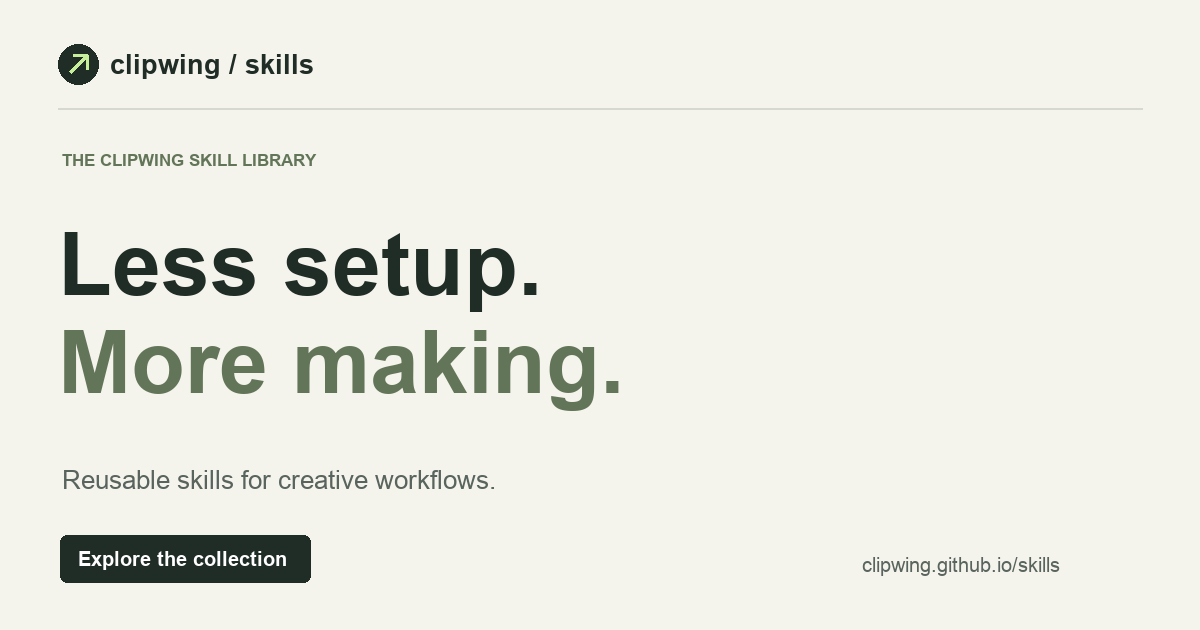
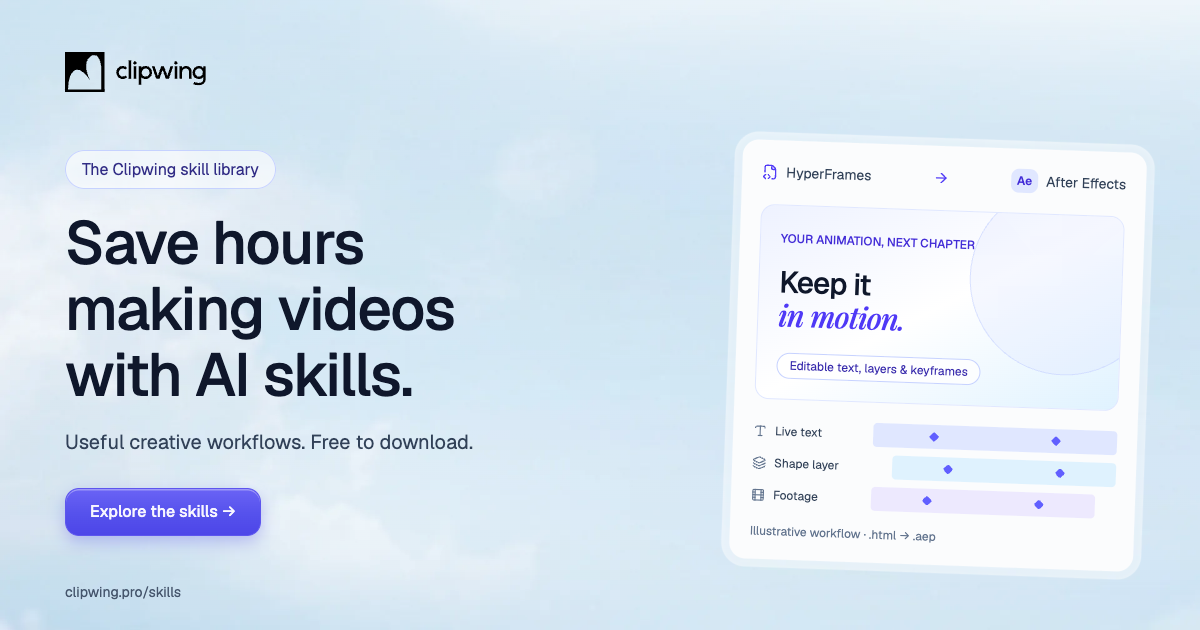
Redirect public catalog to branded clipwing.pro pages

diff --git a/scripts/build_site.py b/scripts/build_site.py
@@ -8,7 +8,7 @@ from pathlib import Path
 
 ROOT = Path(__file__).resolve().parent.parent
 OUT = ROOT / "_site"
-BASE = "https://clipwing.github.io/skills"
+BASE = "https://clipwing.pro/skills"
 REPO = "https://github.com/Clipwing/skills"
 
 
@@ -17,20 +17,22 @@ def escape(value):
 
 
 def page(title, description, route, image, content):
-    canonical = BASE + route
+    canonical = BASE + route.rstrip("/")
+    redirect = f'<meta http-equiv="refresh" content="0; url={canonical}">' if route != "/404.html" else ""
     return f'''<!doctype html>
 <html lang="en">
 <head>
 <meta charset="utf-8"><meta name="viewport" content="width=device-width, initial-scale=1">
+{redirect}
 <title>{escape(title)}</title><meta name="description" content="{escape(description)}">
 <link rel="canonical" href="{canonical}">
 <meta property="og:type" content="website"><meta property="og:site_name" content="Clipwing Skills">
 <meta property="og:title" content="{escape(title)}"><meta property="og:description" content="{escape(description)}">
-<meta property="og:url" content="{canonical}"><meta property="og:image" content="{BASE}/assets/{image}">
+<meta property="og:url" content="{canonical}"><meta property="og:image" content="{BASE}/social/{image}">
 <meta property="og:image:width" content="1200"><meta property="og:image:height" content="630">
 <meta property="og:image:alt" content="{escape(title)}">
 <meta name="twitter:card" content="summary_large_image"><meta name="twitter:title" content="{escape(title)}">
-<meta name="twitter:description" content="{escape(description)}"><meta name="twitter:image" content="{BASE}/assets/{image}">
+<meta name="twitter:description" content="{escape(description)}"><meta name="twitter:image" content="{BASE}/social/{image}">
 <link rel="icon" href="/skills/assets/favicon.svg" type="image/svg+xml">
 <link rel="stylesheet" href="/skills/assets/style.css">
 </head>

diff --git a/README.md b/README.md
@@ -2,7 +2,7 @@
 
 A collection of reusable AI agent skills from Clipwing. Each skill lives in its own folder under `skills/`, with a `SKILL.md` file and any supporting scripts or references.
 
-**[Browse the public catalog](https://clipwing.github.io/skills/)** — each skill has its own page, installation guide and direct download.
+**[Browse the public catalog](https://clipwing.pro/skills/)** — each skill has its own page, installation guide and direct download.
 
 ## Catalog
 
@@ -10,7 +10,7 @@ A collection of reusable AI agent skills from Clipwing. Each skill lives in its 
 | --- | --- | --- |
 | [HyperFrames → After Effects](skills/hyperframes-to-after-effects/) | Converts a HyperFrames project into an editable After Effects project with text, shapes, footage, precomps and keyframes, then compares frames against the original render. | [.skill package](packages/hyperframes-to-after-effects.skill) |
 
-Share this skill: [HyperFrames → After Effects](https://clipwing.github.io/skills/hyperframes-to-after-effects/).
+Share this skill: [HyperFrames → After Effects](https://clipwing.pro/skills/hyperframes-to-after-effects/).
 
 ## Install in Claude Code
 
@@ -84,9 +84,11 @@ The folders under `skills/` are the source of truth. Keep packaged downloads in 
 
 ## Public website
 
-The static catalog is published to **https://clipwing.github.io/skills/** by GitHub Pages. Every push to `main` builds and deploys it through `.github/workflows/pages.yml`.
+The public catalog lives on the main Clipwing website at **https://clipwing.pro/skills** and uses its shared branding and navigation. Its pages are maintained in [`Clipwing/clipwing-website`](https://github.com/Clipwing/clipwing-website).
 
-To add a skill to the website:
+GitHub Pages is retained for existing shared links and package distribution. It redirects catalog and skill-page visitors to the main website. Every push to `main` builds and deploys these compatibility pages through `.github/workflows/pages.yml`.
+
+To add a skill to this repository and its compatibility catalog:
 
 1. Add its source folder under `skills/`.
 2. Add its metadata to `site/catalog.json` (unique slug, name, summary, category, platform, version, update date and social image filename).
@@ -94,5 +96,7 @@ To add a skill to the website:
 4. Run `python3 scripts/build_site.py` to check the build, then commit the sources. The builder generates the catalog, pages, social metadata and `.skill` downloads in ignored `_site/`.
 
 Website downloads are built directly from `skills/<slug>/` on every deployment. The manually distributed archives in `packages/` are retained separately and should also be updated when a skill changes. Version labels in the catalog describe the skill; GitHub Releases are not yet configured.
+
+To update the main website, run `node scripts/sync-skills.mjs <full-commit-sha>` in `Clipwing/clipwing-website`, review its detail content and branded social images, then deploy it. The website serves a pinned snapshot of the catalog and packages; updating this repository alone does not change that reviewed snapshot.
 
 To preview locally, serve a parent directory that maps `_site/` to `/skills/`, matching the public GitHub Pages URL. No JavaScript framework, package installation or application server is needed for the deployed site.
